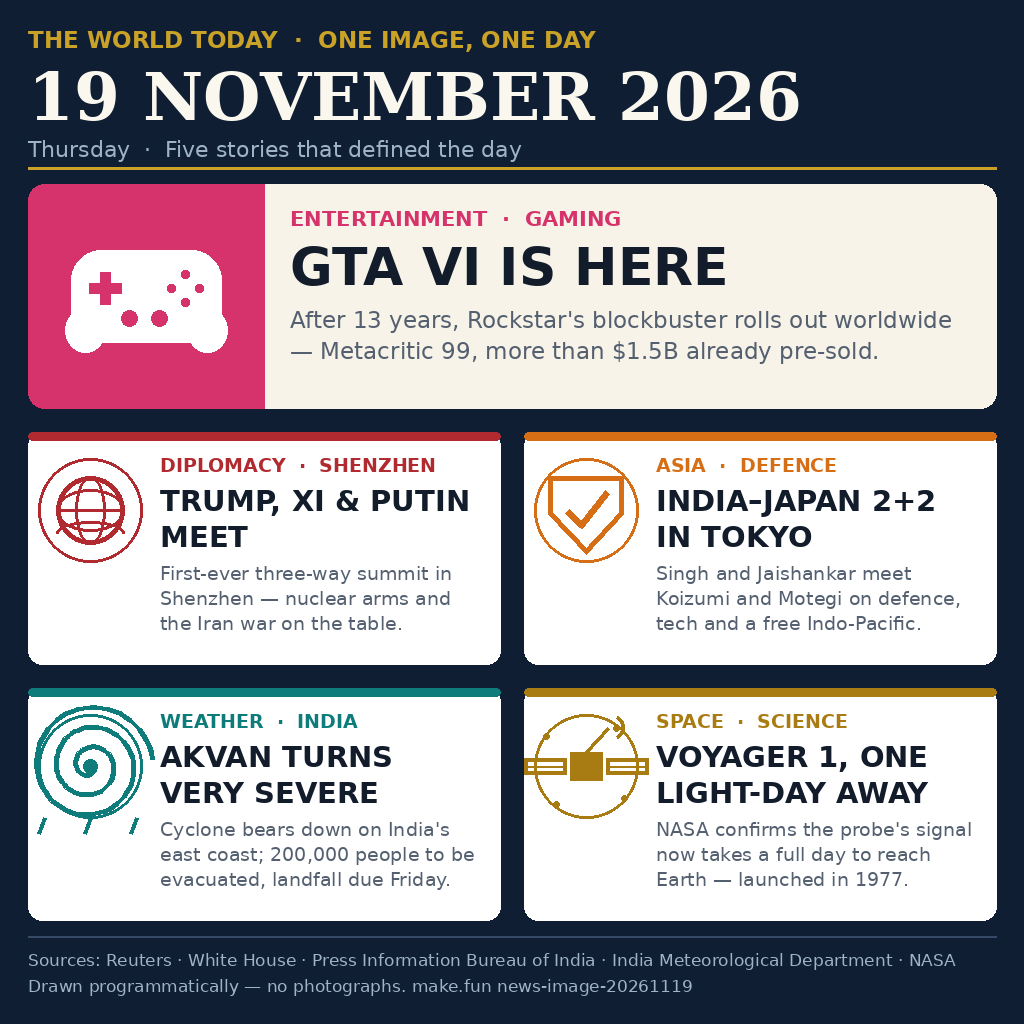
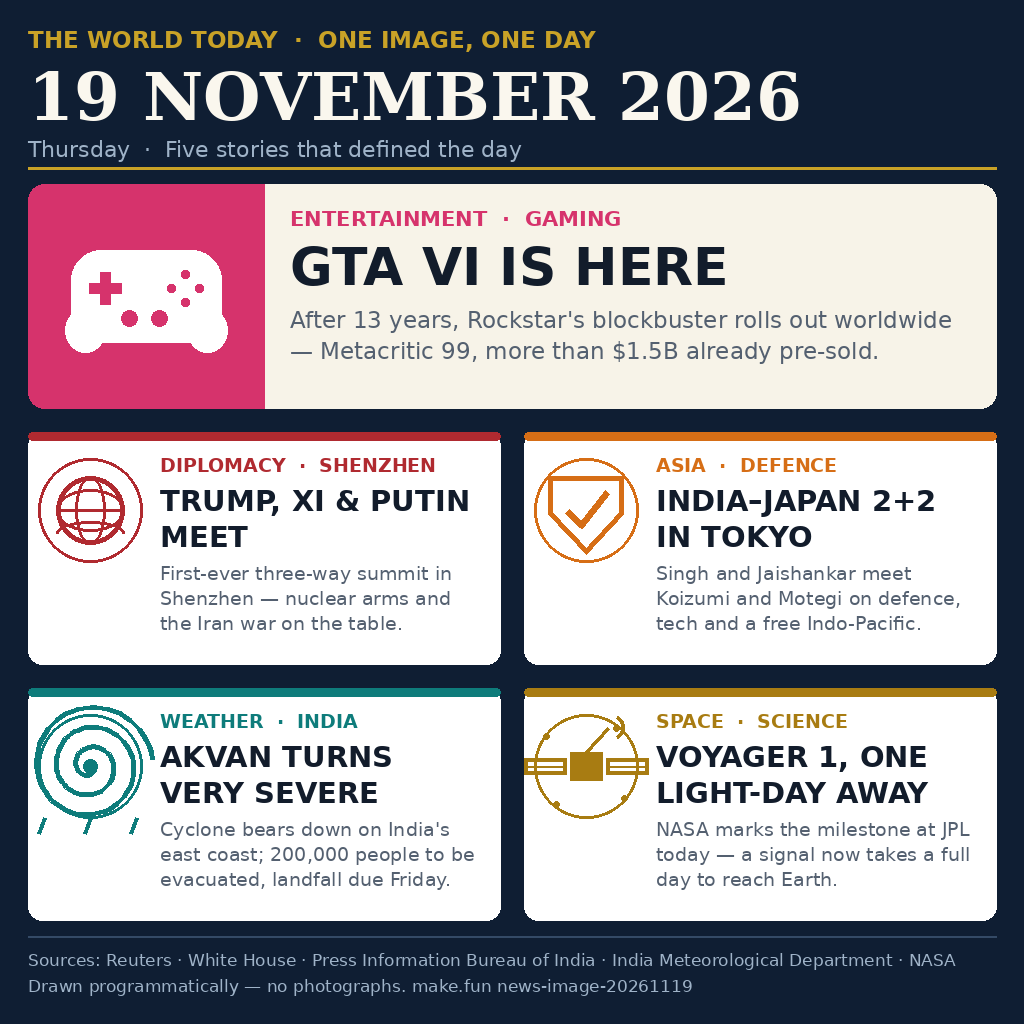
Frame Voyager card on the 19 Nov JPL briefing (crossing was 18 Nov)

Changed region(s): [[0.6562, 0.7812, 0.9688, 0.875]]

diff --git a/render.py b/render.py
@@ -202,8 +202,8 @@ def main():
          "evacuated, landfall due Friday.",
          lambda dr, x, y, c: draw_cyclone(dr, x, y, c)),
         (BRONZE, "SPACE  ·  SCIENCE", "VOYAGER 1, ONE LIGHT-DAY AWAY",
-         "NASA confirms the probe's signal now takes a full day to reach "
-         "Earth — launched in 1977.",
+         "NASA marks the milestone at JPL today — a signal now takes a "
+         "full day to reach Earth.",
          lambda dr, x, y, c: draw_satellite(dr, x, y, c)),
     ]
     for i, (accent, kicker, headline, sub, icon_fn) in enumerate(stories):
